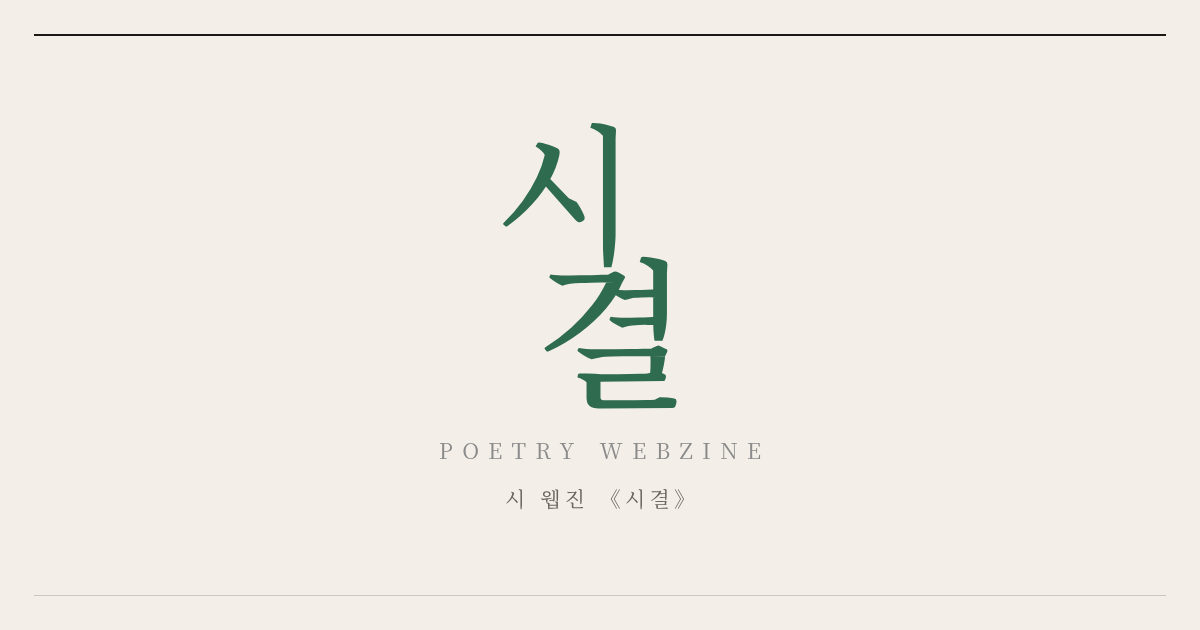
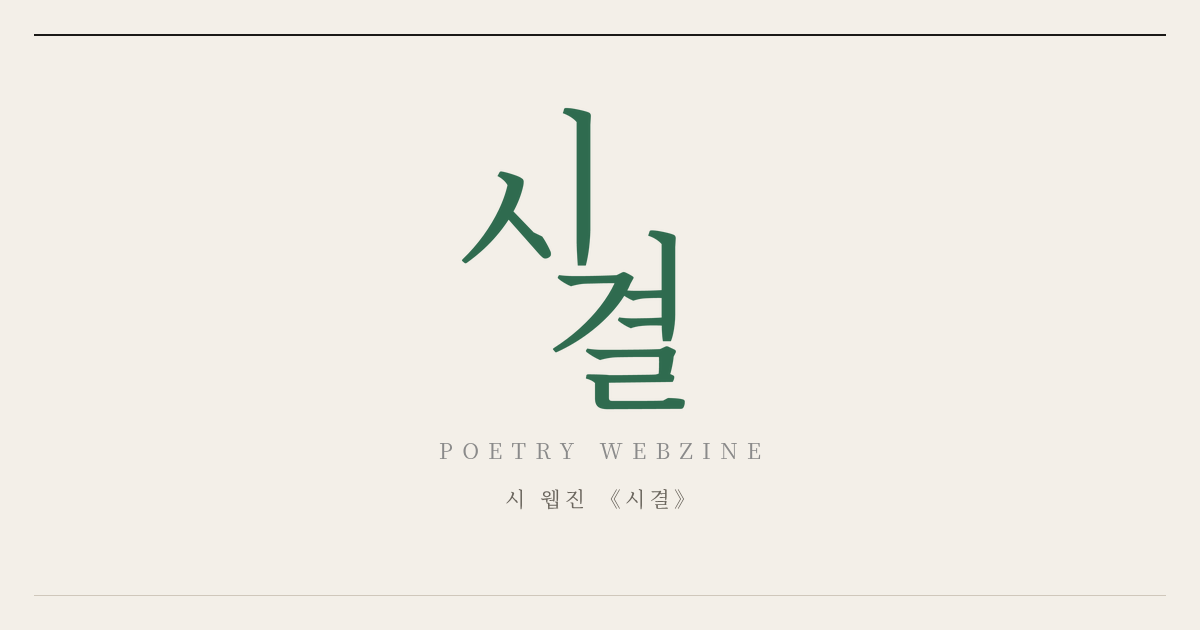
로고를 원본 구성으로: Noto Serif KR 500 윤곽선을 원본에 맞춰 재배치한 SVG(시 1.01배·결 왼쪽으로, ㅣ는 ㄱ 위, ㅅ 낮게·긴 ㅣ) + 파비콘·OG 재생성 (미배포)

Changed region(s): [[0.4008, 0.1508, 0.5858, 0.6635], [0.37, 0.3921, 0.4008, 0.4222]]

diff --git a/index.html b/index.html
@@ -114,20 +114,20 @@
             transition: opacity var(--transition);
         }
         .site-title-wrapper:hover { opacity: 0.85; }
-        /* Logo ~16% larger than the original (2.5/2.7rem); offsets scaled to match */
-        .title-char-si {
-            font-size: 2.9rem;
-            font-weight: 500;
-            letter-spacing: 0.08em;
-            margin-right: 14px;
+        /* Logo (inline SVG). --u = 결's former font-size / 1000 (font units → rem), so the
+           glyphs render at exactly the previous size (incl. the ~16% enlargement). */
+        .site-logo {
+            --u: 0.00312rem;
+            display: block;
+            width: calc(1374.4 * var(--u));
+            height: calc(1857.6 * var(--u));
+            overflow: visible;
+            /* The logo is left-open (시 hangs left of 결), so its ink mass sits right of its box centre
+               (centroid at 62.2% of the width). Shift it so the mass, not the box, is centred. */
+            position: relative;
+            left: calc(-0.122 * 1374.4 * var(--u));
         }
-        .title-char-gyeol {
-            font-size: 3.12rem;
-            font-weight: 500;
-            letter-spacing: 0.08em;
-            margin-left: 9px;
-            margin-top: -1px;
-        }
+        .site-title-wrapper:focus-visible { outline: 1px solid var(--sigyeol-green); outline-offset: 4px; }
         .site-subtitle {
             font-family: var(--serif);
             font-size: 0.7rem;
@@ -613,12 +613,10 @@
             footer.run-foot { margin-top: 44px; }
         }
         @media (max-width: 768px) {
-            .title-char-si { font-size: 2.5rem; }
-            .title-char-gyeol { font-size: 2.66rem; }
+            .site-logo { --u: 0.00266rem; }
         }
         @media (max-width: 400px) {
-            .title-char-si { font-size: 2.26rem; }
-            .title-char-gyeol { font-size: 2.43rem; }
+            .site-logo { --u: 0.00243rem; }
         }
     </style>
 </head>
@@ -627,9 +625,11 @@
 
     <header class="mast">
         <div class="logo-lockup">
-            <div class="site-title-wrapper" onclick="reloadHome()">
-                <span class="title-char-si">시</span>
-                <span class="title-char-gyeol">결</span>
+            <div class="site-title-wrapper" onclick="reloadHome()" onkeydown="if(event.key==='Enter'||event.key===' '){event.preventDefault();reloadHome();}" role="link" tabindex="0" aria-label="시결">
+                <!-- Logo: Noto Serif KR (wght 500, SIL OFL 1.1) outlines recomposed after the original logo
+                     (시 set left of 결 with its ㅣ over 결's ㄱ, ㅅ lowered, tall ㅣ). Source: static/logo/sigyeol-logo.svg,
+                     generator: scripts/logo/compose-logo.py -->
+                <svg class="site-logo" viewBox="0 0 1374.4 1857.6" aria-hidden="true" focusable="false"><path fill="currentColor" d="M1239.4 1438.6Q1236.4 1422.6 1234.4 1396.1Q1232.4 1369.6 1231.9 1343.1Q1231.4 1316.6 1231.4 1298.6V839.7Q1219.4 824.7 1196.9 810.2Q1174.4 795.7 1148.4 787.7L1157.4 759.7Q1159.4 754.7 1170.4 754.7Q1189.4 754.7 1215.4 759.2Q1241.4 763.7 1265.9 769.7Q1290.4 775.7 1305.4 781.7Q1318.4 786.7 1318.4 803.7L1315.4 857.7V1274.6Q1315.4 1302.6 1311.9 1334.1Q1308.4 1365.6 1302.4 1392.6Q1296.4 1419.6 1288.4 1438.6ZM1224.4 1535.6Q1209.4 1535.6 1178.9 1535.6Q1148.4 1535.6 1111.4 1535.6Q1074.4 1535.6 1038.4 1536.1Q1002.4 1536.6 974.4 1537.1Q946.4 1537.6 934.4 1538.6Q919.4 1539.6 894.9 1544.1Q870.4 1548.6 851.4 1554.6Q828.4 1544.6 806.9 1531.6Q785.4 1518.6 768.4 1505.6Q763.4 1500.6 765.4 1494.6L772.4 1483.6Q792.4 1487.6 819.9 1489.6Q847.4 1491.6 865.4 1491.6Q881.4 1491.6 916.9 1491.6Q952.4 1491.6 997.9 1491.1Q1043.4 1490.6 1088.9 1490.1Q1134.4 1489.6 1170.9 1488.6Q1207.4 1487.6 1224.4 1486.6ZM1348.4 1855.6 898.4 1857.6 916.4 1806.6Q936.4 1806.6 969.4 1806.6Q1002.4 1806.6 1041.4 1806.6Q1080.4 1806.6 1118.9 1806.6Q1157.4 1806.6 1189.4 1806.1Q1221.4 1805.6 1240.4 1804.6L1270.4 1788.6Q1291.4 1788.6 1318.4 1790.6Q1345.4 1792.6 1360.4 1796.6Q1374.4 1799.6 1374.4 1811.6Q1374.4 1826.6 1370.4 1837.1Q1366.4 1847.6 1363.4 1850.6Q1358.4 1855.6 1348.4 1855.6ZM898.4 1857.6Q855.4 1857.6 837.9 1841.6Q820.4 1825.6 820.4 1791.6V1736.6H906.4V1788.6Q906.4 1806.6 924.4 1806.6ZM906.4 1756.6H820.4V1696.6Q810.4 1686.6 795.9 1679.6Q781.4 1672.6 764.4 1668.6L767.4 1648.6Q769.4 1642.6 778.4 1642.6Q794.4 1642.6 819.4 1643.1Q844.4 1643.6 869.4 1644.6Q894.4 1645.6 908.4 1647.6L906.4 1694.6ZM1305.4 1533.6 1214.4 1534.6 1222.4 1486.6 1254.4 1471.6Q1262.4 1467.6 1272.4 1471.6Q1280.4 1475.6 1294.4 1482.1Q1308.4 1488.6 1315.4 1492.6Q1321.4 1497.6 1318.4 1507.6ZM1212.4 1641.6Q1214.4 1629.6 1214.9 1608.6Q1215.4 1587.6 1215.4 1566.1Q1215.4 1544.6 1214.4 1534.6L1305.4 1533.6Q1304.4 1548.6 1300.9 1569.1Q1297.4 1589.6 1292.9 1609.1Q1288.4 1628.6 1284.4 1641.6ZM1299.4 1689.6 897.4 1694.6V1647.6Q912.4 1647.6 943.4 1647.6Q974.4 1647.6 1012.4 1647.1Q1050.4 1646.6 1087.9 1646.1Q1125.4 1645.6 1154.4 1645.1Q1183.4 1644.6 1195.4 1643.6L1221.4 1636.6Q1259.4 1628.6 1278.4 1637.6L1303.4 1649.6Q1309.4 1653.6 1309.4 1659.6Q1309.4 1668.6 1305.9 1677.1Q1302.4 1685.6 1299.4 1689.6ZM956.4 1080.6Q939.4 1080.6 908.9 1080.6Q878.4 1080.6 845.4 1081.6Q812.4 1082.6 785.4 1083.1Q758.4 1083.6 747.4 1084.6Q733.4 1085.6 710.4 1090.1Q687.4 1094.6 672.4 1099.6Q652.4 1091.6 630.9 1078.6Q609.4 1065.6 594.4 1052.6Q589.4 1048.6 591.4 1042.6L598.4 1030.6Q619.4 1033.6 643.4 1035.1Q667.4 1036.6 686.4 1036.6Q697.4 1036.6 723.4 1036.6Q749.4 1036.6 783.4 1036.1Q817.4 1035.6 851.9 1034.6Q886.4 1033.6 914.9 1032.6Q943.4 1031.6 956.4 1030.6ZM1039.4 1083.6 941.4 1079.6 952.4 1031.6 988.4 1013.6Q997.4 1009.6 1006.4 1013.6Q1016.4 1017.6 1031.9 1026.1Q1047.4 1034.6 1054.4 1039.6Q1061.4 1044.6 1056.4 1052.6ZM563.4 1491.6Q558.4 1486.6 564.4 1481.6Q652.4 1425.6 725.9 1359.1Q799.4 1292.6 854.4 1221.1Q909.4 1149.6 941.4 1079.6L993.4 1061.6L1039.4 1083.6Q1006.4 1163.6 939.4 1242.1Q872.4 1320.6 781.9 1388.6Q691.4 1456.6 587.4 1504.6Q579.4 1508.6 575.4 1505.6ZM1120.4 1174.6Q1106.4 1175.6 1088.4 1179.6Q1070.4 1183.6 1056.4 1188.6Q1035.4 1179.6 1015.9 1168.1Q996.4 1156.6 981.4 1143.6Q976.4 1138.6 978.4 1132.6L985.4 1121.6Q1004.4 1124.6 1026.4 1126.1Q1048.4 1127.6 1069.4 1127.6ZM1254.4 1172.6Q1235.4 1171.6 1208.9 1171.6Q1182.4 1171.6 1158.4 1172.6Q1134.4 1173.6 1120.4 1174.6L1069.4 1127.6Q1088.4 1127.6 1122.9 1127.1Q1157.4 1126.6 1193.9 1125.1Q1230.4 1123.6 1254.4 1121.6ZM1104.4 1344.6Q1090.4 1345.6 1072.4 1349.6Q1054.4 1353.6 1041.4 1358.6Q1019.4 1349.6 999.9 1337.6Q980.4 1325.6 965.4 1313.6Q960.4 1308.6 963.4 1302.6L969.4 1291.6Q988.4 1294.6 1010.9 1296.1Q1033.4 1297.6 1053.4 1297.6ZM1247.4 1342.6Q1226.4 1341.6 1198.4 1341.1Q1170.4 1340.6 1144.9 1341.6Q1119.4 1342.6 1104.4 1344.6L1053.4 1297.6Q1068.4 1297.6 1092.9 1297.1Q1117.4 1296.6 1145.9 1296.1Q1174.4 1295.6 1201.4 1294.1Q1228.4 1292.6 1247.4 1291.6ZM714.1 971.6Q713.1 956.5 711.5 930.7Q710 905 708.5 875.7Q707 846.4 707 819.6Q707 792.8 707 775.7V86.9Q693.9 70.7 671.1 56.1Q648.4 41.4 622.2 32.3L630.2 5Q632.3 2 634.3 1Q636.3 0 643.4 0Q663.6 0 689.8 4.5Q716.1 9.1 741.3 15.1Q766.6 21.2 781.7 27.3Q794.9 32.3 794.9 49.5L791.8 105V747.4Q791.8 769.6 789.8 798.9Q787.8 828.2 784.3 859.5Q780.7 890.8 775.2 920.1Q769.6 949.4 763.6 971.6ZM280.6 476.3Q273.5 461.2 256.3 445.5Q239.1 429.8 218.9 419.7L232.1 395.5Q235.1 390.5 244.2 391.5Q263.4 394.5 287.6 401.6Q311.9 408.6 334.1 416.7Q356.3 424.8 367.4 432.9Q380.5 439.9 380.5 454.1ZM1.8 943.9Q-2.2 939.9 2.8 933.8Q75.5 864.1 132.1 785.9Q188.6 707.6 226.5 628.3Q264.4 549 280.6 476.3L380.5 454.1Q380.5 466.2 378.5 477.3Q361.4 559.1 314.4 644Q267.4 728.8 195.2 808.6Q123 888.4 28.1 956.1Q22 960.1 15.9 956.1ZM479.5 905.6 268.4 667.2 442.2 767.2 494.7 792.4Q507.8 810.6 521.4 835.4Q535.1 860.1 542.1 876.3Q548.2 887.4 548.7 896Q549.2 904.5 547.2 910.6Q541.1 920.7 528 925.8Q514.9 930.8 504.8 926.8Q499.7 924.7 492.7 918.2Q485.6 911.6 479.5 905.6ZM442.2 767.2 436.1 774.3 268.4 667.2 297.7 617.7Z"/></svg>
             </div>
             <div class="site-subtitle">POETRY WEBZINE</div>
         </div>

diff --git a/scripts/logo/compose-logo.py b/scripts/logo/compose-logo.py
@@ -1,0 +1,75 @@
+"""Compose the 시결 logo (static/logo/sigyeol-logo.svg) from Noto Serif KR outlines,
+calibrated by overlay on the original hand-made logo.
+
+Not part of the site build; run by hand only when the logo changes.
+  1. Font (SIL OFL 1.1): https://github.com/google/fonts/tree/main/ofl/notoserifkr
+     NotoSerifKR[wght].ttf, instanced at wght 500 (the weight the logo used as text):
+       python3 -c "from fontTools.ttLib import TTFont; from fontTools.varLib.instancer import instantiateVariableFont as i; i(TTFont('NotoSerifKR[wght].ttf'),{'wght':500}).save('NotoSerifKR-500.ttf')"
+  2. python3 scripts/logo/compose-logo.py '{}' static/logo/sigyeol-logo.svg   (run next to NotoSerifKR-500.ttf)
+  3. Paste the path into index.html (.site-logo) and update the viewBox / width / height there.
+
+Calibration (original 138x170 px crop; 결 fitted at k = 0.099 px per font unit, X = 51 + k*x, Y = 156 - k*y):
+  ㅅ box x 2..58, y 23..76  → 시 scale 1.01 x 결 (ㅅ box size), ㅅ centre at (-212, 1076) in 결 units
+  시's ㅣ stem centre x 76 px → 252.5 u; its bottom sits `gap` above 결's ㄱ (orig: 4 px)
+  결's ㅣ top y 55 px → 1020 u (Noto: 854)
+All values below are in 결 font units (1000/em), y-up; the SVG is written y-down."""
+import json,sys
+from fontTools.ttLib import TTFont
+from fontTools.pens.recordingPen import RecordingPen
+from fontTools.pens.svgPathPen import SVGPathPen
+from fontTools.pens.boundsPen import BoundsPen
+from fontTools.pens.transformPen import TransformPen
+P=dict(
+  si_scale=1.01,          # 시 : 결 size ratio (measured on the original)
+  si_stem_x=252.5,        # centre of 시's ㅣ stem
+  gap=40,                 # 시ㅣ bottom above 결's ㄱ top
+  si_i_raise=0,           # extra length on top of 시's ㅣ (시 units); Noto's ㅣ already reaches past the crop top
+  s_cx=-222,              # ㅅ centre (x)   (box centre -212 u, nudged by overlay)
+  s_cy_above_gap=1060,    # ㅅ centre (y)   (box centre 1076 u, nudged by overlay); moves with 시 via `lift`
+  gy_i_top=1020.2,        # top of 결's ㅣ
+)
+P.update(json.loads(sys.argv[1]) if len(sys.argv)>1 and sys.argv[1] else {})
+F=TTFont('NotoSerifKR-500.ttf');GS=F.getGlyphSet();CM=F.getBestCmap()
+def contours(ch):
+    rp=RecordingPen();GS[CM[ord(ch)]].draw(rp);out=[];cur=[]
+    for op,a in rp.value:
+        cur.append((op,a))
+        if op in('closePath','endPath'):out.append(cur);cur=[]
+    return out
+def tf(con,a,dx,dy,ycut=None,raise_=0):
+    out=[]
+    for op,args in con:
+        pts=[]
+        for x,y in args:
+            if ycut is not None and y>ycut: y+=raise_
+            pts.append((a*x+dx,a*y+dy))
+        out.append((op,tuple(pts)))
+    return out
+def bounds(cons):
+    bp=BoundsPen(GS)
+    for c in cons:
+        for op,a in c: getattr(bp,op)(*a)
+    return bp.bounds
+si=contours('시');gy=contours('결')
+G_TOP=bounds([gy[9]])[3]                         # top of 결's ㄱ
+gy_i=tf(gy[0],1,0,0,600,P['gy_i_top']-854.24)     # stretch 결's ㅣ stem up
+s=P['si_scale']
+stem_c=(729+812)/2                               # 시's ㅣ stem centre (Noto units)
+dx_i=P['si_stem_x']-s*stem_c
+dy_i=(G_TOP+P['gap'])-s*bounds([si[0]])[1]       # ㅣ bottom = ㄱ top + gap
+si_i=tf(si[0],s,dx_i,dy_i,400,P['si_i_raise'])
+lift=dy_i-((156-80.5)/0.099+108.44*s)            # how much 시 moved vs the measured ㅣ bottom
+sb=bounds(si[1:]);scx=(sb[0]+sb[2])/2;scy=(sb[1]+sb[3])/2
+si_s=[tf(c,s,P['s_cx']-s*scx,P['s_cy_above_gap']+lift-s*scy) for c in si[1:]]
+parts=[gy_i]+gy[1:]+[si_i]+si_s
+x0,y0,x1,y1=bounds(parts);W,H=x1-x0,y1-y0
+sp=SVGPathPen(GS,ntos=lambda v:('%.1f'%v).rstrip('0').rstrip('.'))
+t=TransformPen(sp,(1,0,0,-1,-x0,y1))
+for c in parts:
+    for op,a in c: getattr(t,op)(*a)
+d=sp.getCommands()
+svg=f'<svg xmlns="http://www.w3.org/2000/svg" role="img" aria-label="시결" viewBox="0 0 {W:.1f} {H:.1f}"><path fill="#2f6b4f" d="{d}"/></svg>'
+out=sys.argv[2] if len(sys.argv)>2 else 'logo.svg';open(out,'w').write(svg)
+gb=bounds([gy_i]+gy[1:])
+meta=dict(W=round(W,1),H=round(H,1),x0=x0,y1=y1,gy_left_svg=gb[0]-x0,gy_bottom_svg=y1-gb[1],lift=round(lift,1),P=P)
+json.dump(meta,open(out+'.json','w'));print(json.dumps(meta))
